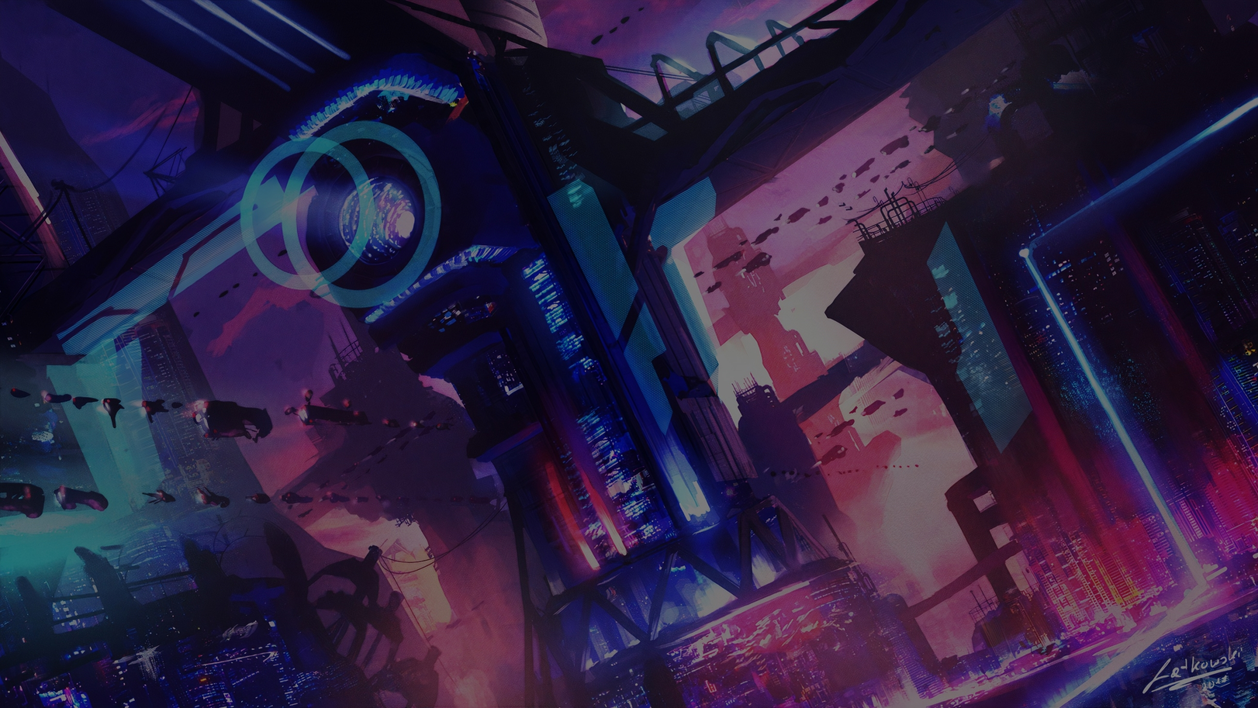
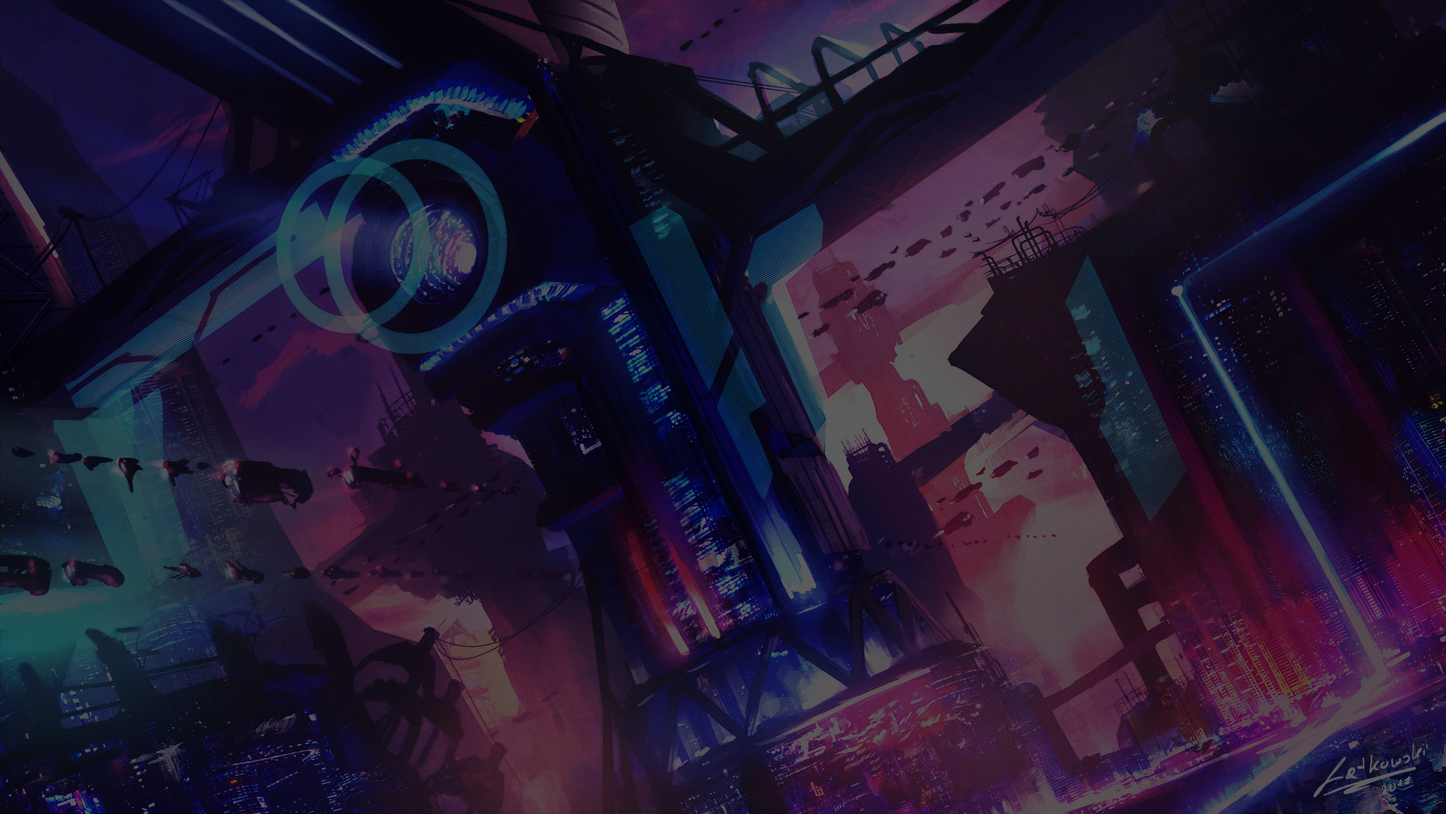
[Remix] Improve the remixer

diff --git a/lib/screens/remix/remix_screen.dart b/lib/screens/remix/remix_screen.dart
@@ -1,3 +1,4 @@
+import 'package:Flunk/constants/colors.dart';
 import 'package:animated_text_kit/animated_text_kit.dart';
 import 'package:flutter/material.dart';
 import 'package:get/get.dart';
@@ -15,180 +16,194 @@ class RemixScreen extends StatelessWidget {
       init: RemixViewModel(),
       builder: (model) => Scaffold(
         backgroundColor: Color(0xff1B0536),
-        body: Container(
-          decoration: BoxDecoration(
-              // image: DecorationImage(
-              //   image: AssetImage(
-              //     "assets/images/bg3.jpg",
-              //   ),
-              //   fit: BoxFit.cover,
-              // ),
-              ),
-          child: Column(
-            children: [
-              GradientAppBar(
-                title: "REMIX",
-                color1: Color(0xff6D0B60),
-                color2: Color(0xffFF21B7),
-                action: FlatButton(
-                  onPressed: model.selectedImageUrl != "" ? model.next() : null,
-                  child: Text(
-                    "NEXT",
-                    style: TextStyle(
-                        fontWeight: FontWeight.w900, color: Colors.white),
-                  ),
+        body: Column(
+          children: [
+            GradientAppBar(
+              title: "REMIX",
+              color1: Color(0xff6D0B60),
+              color2: Color(0xffFF21B7),
+              action: FlatButton(
+                onPressed: model.selectedImageUrl != ""
+                    ? () {
+                        model.next();
+                      }
+                    : null,
+                child: Text(
+                  "NEXT",
+                  style: TextStyle(
+                      fontWeight: FontWeight.w900, color: Colors.white),
                 ),
               ),
-              Expanded(
-                child: Container(),
-              ),
-              model.loading
-                  ? Expanded(
-                      child: Center(
-                        child: TypewriterAnimatedTextKit(
-                          text: [
-                            "SOMETHING AWESOME",
-                            "IS WAITING",
-                            "FOR YOU",
-                          ],
-                          repeatForever: true,
-                          isRepeatingAnimation: true,
-                          speed: Duration(milliseconds: 150),
-                          textStyle: TextStyle(
-                            fontWeight: FontWeight.w900,
-                            fontSize: 20.0,
-                            letterSpacing: 2,
-                            color: Colors.white,
-                            fontFamily: "Blanka",
-                          ),
+            ),
+            Expanded(
+              child: Container(),
+            ),
+            model.loading
+                ? Expanded(
+                    child: Center(
+                      child: TypewriterAnimatedTextKit(
+                        text: [
+                          "SOMETHING AWESOME",
+                          "IS WAITING",
+                          "FOR YOU",
+                        ],
+                        repeatForever: true,
+                        isRepeatingAnimation: true,
+                        speed: Duration(milliseconds: 150),
+                        textStyle: TextStyle(
+                          fontWeight: FontWeight.w900,
+                          fontSize: 20.0,
+                          letterSpacing: 2,
+                          color: Colors.white,
+                          fontFamily: "Blanka",
                         ),
                       ),
-                    )
-                  : Center(
-                      child: model.selectedImageUrl == ""
-                          ? ParallelogramButton(
-                              child: Row(
-                                crossAxisAlignment: CrossAxisAlignment.center,
-                                mainAxisAlignment: MainAxisAlignment.center,
-                                children: [
-                                  Text(
-                                    "SELECT ",
-                                    style: TextStyle(
-                                      fontWeight: FontWeight.w900,
-                                      fontSize: 15.0,
-                                      letterSpacing: 2,
-                                    ),
-                                  ),
-                                  Text(
-                                    "A PHOTO",
-                                    style: TextStyle(
-                                      fontSize: 15.0,
-                                      letterSpacing: 2,
-                                    ),
-                                  ),
-                                ],
-                              ),
-                              onTap: () => model.selectImage(),
-                              width: 280,
-                            )
-                          : Column(
+                    ),
+                  )
+                : Center(
+                    child: model.selectedImageUrl == ""
+                        ? ParallelogramButton(
+                            child: Row(
                               crossAxisAlignment: CrossAxisAlignment.center,
                               mainAxisAlignment: MainAxisAlignment.center,
                               children: [
-                                Screenshot(
-                                  controller: model.screenshotController,
-                                  child: ClipRRect(
-                                    child: Container(
-                                      width: MediaQuery.of(context).size.width -
-                                          40,
-                                      height:
-                                          MediaQuery.of(context).size.width -
-                                              40,
-                                      child: Stack(
-                                        children: [
-                                          Image.asset(
-                                            "assets/images/remix${model.currentBg}.png",
-                                            fit: BoxFit.cover,
-                                          ),
-                                          PhotoView(
-                                            imageProvider: NetworkImage(
-                                              model.selectedImageUrl,
-                                            ),
-                                            basePosition: Alignment.center,
-                                            backgroundDecoration: BoxDecoration(
-                                              color: Colors.transparent,
-                                            ),
-                                          ),
-                                        ],
-                                      ),
-                                    ),
+                                Text(
+                                  "SELECT ",
+                                  style: TextStyle(
+                                    fontWeight: FontWeight.w900,
+                                    fontSize: 15.0,
+                                    letterSpacing: 2,
                                   ),
                                 ),
-                                SizedBox(
-                                  height: 8,
-                                ),
-                                FlatButton(
-                                  onPressed: () => model.selectImage(),
-                                  child: Text(
-                                    "CHANGE IMAGE",
-                                    style: TextStyle(
-                                        fontWeight: FontWeight.w900,
-                                        color: Colors.white),
+                                Text(
+                                  "A PHOTO",
+                                  style: TextStyle(
+                                    fontSize: 15.0,
+                                    letterSpacing: 2,
                                   ),
                                 ),
                               ],
                             ),
-                    ),
-              Expanded(
-                child: Container(),
-              ),
-              (model.selectedImageUrl == "" || model.loading)
-                  ? Container()
-                  : Column(
-                      children: [
-                        Text(
-                          "Please select a background",
-                          style: TextStyle(
-                            color: Colors.white,
-                            fontWeight: FontWeight.w900,
-                            fontSize: 18,
-                          ),
-                        ),
-                        SizedBox(
-                          height: 12,
-                        ),
-                        SizedBox(
-                          height: 120,
-                          child: ListView(
-                            scrollDirection: Axis.horizontal,
-                            physics: BouncingScrollPhysics(),
-                            children: [1, 2, 3, 4, 5, 6, 7, 8]
-                                .map(
-                                  (e) => InkWell(
-                                    onTap: () {
-                                      model.setBg(e);
-                                    },
-                                    child: Container(
-                                      width: 120,
-                                      height: 120,
-                                      decoration: BoxDecoration(
-                                        image: DecorationImage(
-                                          image: AssetImage(
-                                            "assets/images/remix$e.png",
-                                          ),
+                            onTap: () => model.selectImage(),
+                            width: 280,
+                          )
+                        : Column(
+                            crossAxisAlignment: CrossAxisAlignment.center,
+                            mainAxisAlignment: MainAxisAlignment.center,
+                            children: [
+                              Screenshot(
+                                controller: model.screenshotController,
+                                child: ClipRRect(
+                                  child: Container(
+                                    width:
+                                        MediaQuery.of(context).size.width - 40,
+                                    height:
+                                        MediaQuery.of(context).size.width - 40,
+                                    child: Stack(
+                                      children: [
+                                        Image.asset(
+                                          "assets/images/remix${model.currentBg}.png",
                                           fit: BoxFit.cover,
                                         ),
-                                      ),
+                                        Container(
+                                          color: Colors.black
+                                              .withOpacity(model.opacity),
+                                        ),
+                                        PhotoView(
+                                          imageProvider: NetworkImage(
+                                            model.selectedImageUrl,
+                                          ),
+                                          basePosition: Alignment.center,
+                                          backgroundDecoration: BoxDecoration(
+                                            color: Colors.transparent,
+                                          ),
+                                        ),
+                                      ],
                                     ),
                                   ),
-                                )
-                                .toList(),
+                                ),
+                              ),
+                              SizedBox(
+                                height: 8,
+                              ),
+                              FlatButton(
+                                onPressed: () => model.selectImage(),
+                                child: Text(
+                                  "CHANGE IMAGE",
+                                  style: TextStyle(
+                                      fontWeight: FontWeight.w900,
+                                      color: Colors.white),
+                                ),
+                              ),
+                            ],
+                          ),
+                  ),
+            Expanded(
+              child: Container(),
+            ),
+            (model.selectedImageUrl == "" || model.loading)
+                ? Container()
+                : Column(
+                    children: [
+                      Text(
+                        "Background Opacity",
+                        style: TextStyle(
+                          color: Colors.white,
+                          fontWeight: FontWeight.w900,
+                          fontSize: 18,
+                        ),
+                      ),
+                      SizedBox(
+                        height: 8,
+                      ),
+                      Slider(
+                        onChanged: model.setOpacity,
+                        value: model.opacity,
+                        activeColor: gradient1Left,
+                        inactiveColor: gradient1Right.withOpacity(0.2),
+                      ),
+                      SizedBox(
+                        height: 16,
+                      ),
+                      Text(
+                        "Please select a background",
+                        style: TextStyle(
+                          color: Colors.white,
+                          fontWeight: FontWeight.w900,
+                          fontSize: 18,
+                        ),
+                      ),
+                      SizedBox(
+                        height: 8,
+                      ),
+                      SizedBox(
+                        height: 120,
+                        child: ListView.builder(
+                          scrollDirection: Axis.horizontal,
+                          physics: BouncingScrollPhysics(),
+                          itemCount: 12,
+                          itemBuilder: (context, i) => InkWell(
+                            onTap: () {
+                              model.setBg(i + 1);
+                            },
+                            child: Container(
+                              width: 120,
+                              height: 120,
+                              decoration: BoxDecoration(
+                                image: DecorationImage(
+                                  image: AssetImage(
+                                    "assets/images/remix${i + 1}.png",
+                                  ),
+                                  fit: BoxFit.cover,
+                                ),
+                              ),
+                            ),
                           ),
                         ),
-                      ],
-                    ),
-            ],
-          ),
+                      ),
+                    ],
+                  ),
+          ],
         ),
       ),
     );

diff --git a/lib/screens/remix/remix_viewmodel.dart b/lib/screens/remix/remix_viewmodel.dart
@@ -25,6 +25,14 @@ class RemixViewModel extends GetxController {
 
   ScreenshotController screenshotController = ScreenshotController();
 
+  double _opacity = 0.2;
+  double get opacity => _opacity;
+
+  setOpacity(double opacity) {
+    _opacity = opacity;
+    update();
+  }
+
   next() async {
     File scrot = await screenshotController.capture();
 

diff --git a/README.md b/README.md
@@ -1,3 +1,14 @@
 # Flunk
 
 The Flutter cyberpunk app. Built for the [flutter hackathon](https://flutterhackathon.com)
+
+---
+
+## Building
+
+`master` channel is recommended
+
+- Clone the repo
+- Setup your signing keys
+- Change the secrets
+- Run build.sh
